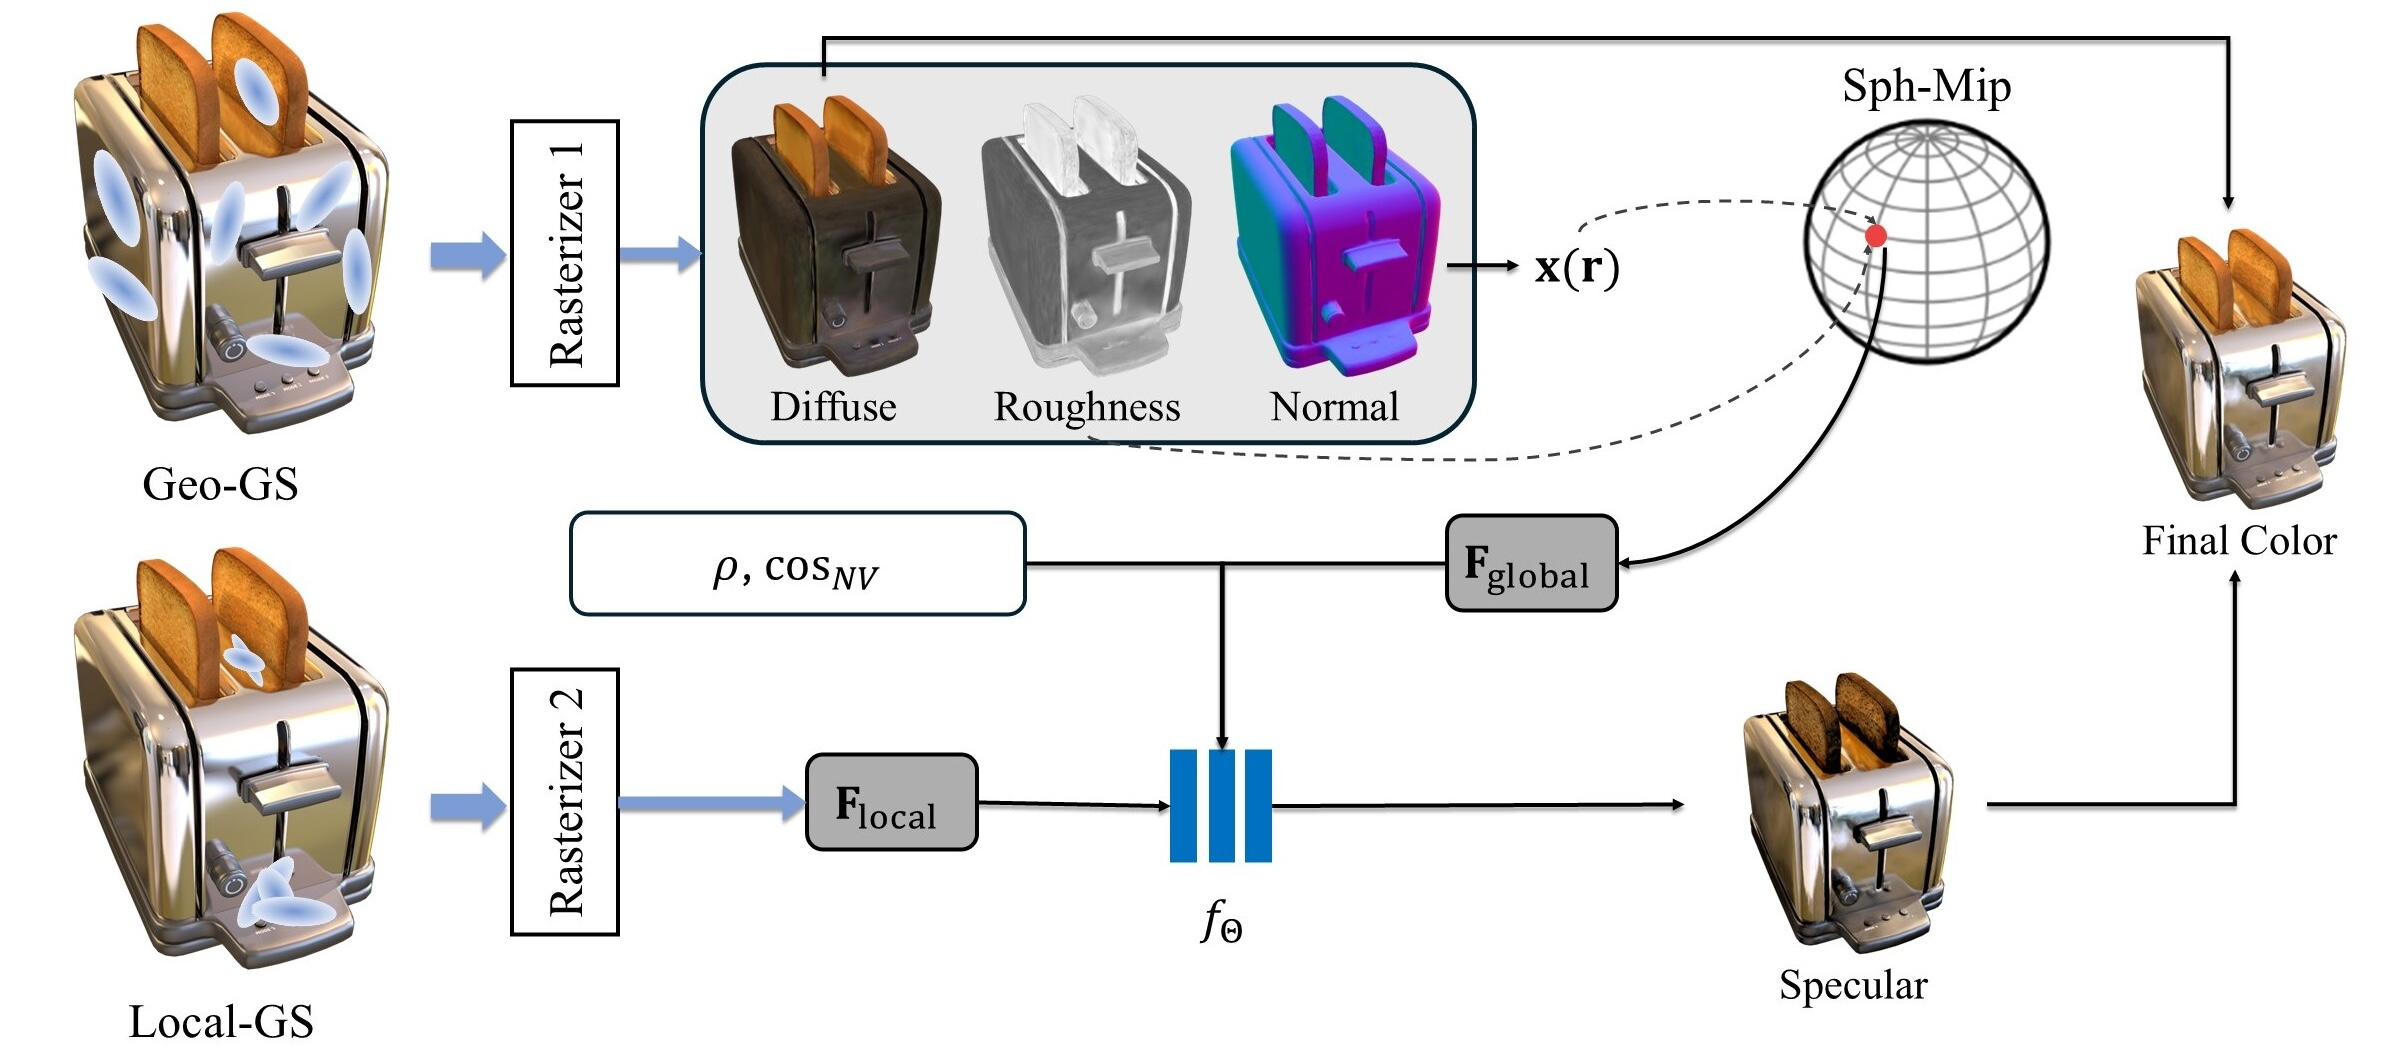
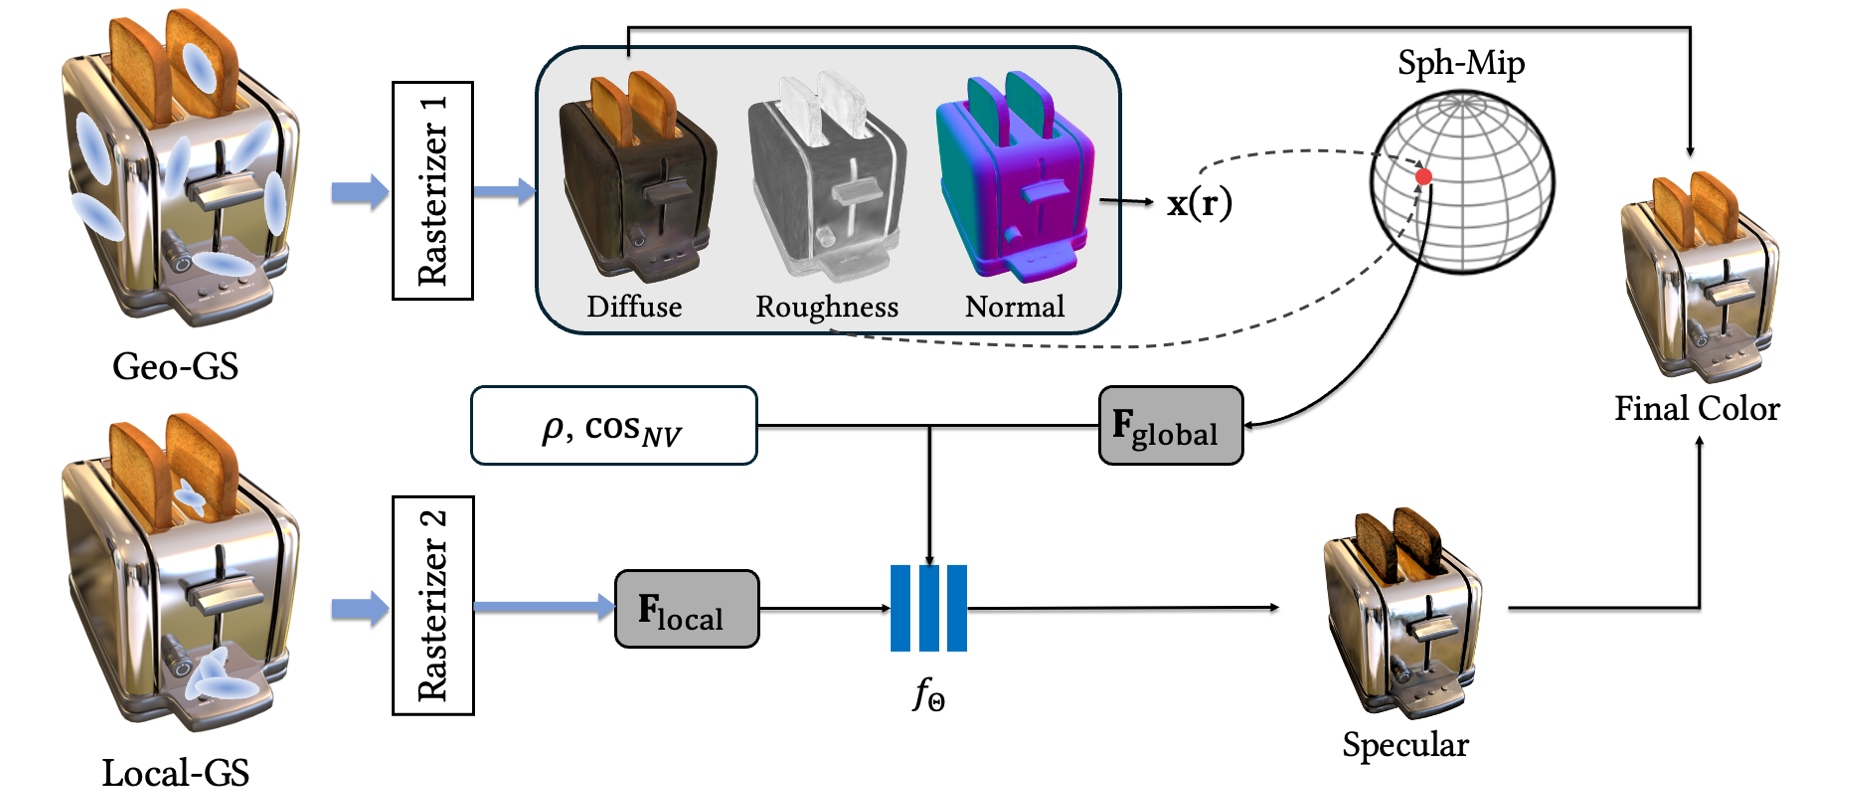
Init website

diff --git a/index.html b/index.html
@@ -72,7 +72,7 @@
         <div class="column has-text-centered">
           <h1 class="title is-1 publication-title">Ref-DGS: Reflective Dual Gaussian Splatting</h1>
           <!-- <h1 style="font-size:1.5rem"> SIGGRAPH 2026 Submission<br>(ACM Transactions on Graphics) <br></h1> -->
-           <h1 style="font-size:1.5rem">Conditionally accepted to SIGGRAPH</h1>
+           <h1 style="font-size:1.5rem; color:red;">SIGGRAPH 2026</h1>
           <div class="is-size-5 publication-authors">
             <span class="author-block">
               <a>Ningjing Fan</a><sup>1</sup>&nbsp;&nbsp;&nbsp;&nbsp;&nbsp;
@@ -93,7 +93,7 @@
 
           <div class="is-size-5 publication-authors">
             <span class="author-block"><sup>1</sup>Chongqing University</span>&nbsp;&nbsp;&nbsp;&nbsp;&nbsp;
-            <span class="author-block"><sup>2</sup>Institute of Automation, Chinese Academy of Sciences</span>&nbsp;&nbsp;&nbsp;&nbsp;&nbsp;
+            <span class="author-block"><sup>2</sup>MAIS, Institute of Automation, Chinese Academy of Sciences, and UCAS</span>&nbsp;&nbsp;&nbsp;&nbsp;&nbsp;
             <span class="author-block"><sup>3</sup>King Abdullah University of Science and Technology (KAUST)</span>
           </div>
 <!-- 
@@ -239,19 +239,7 @@
       <div class="column is-four-fifths">
         <h2 class="title is-3">Abstract</h2>
         <div class="content has-text-justified">
-          Reflective appearance, especially strong and typically near-field specular reflections, 
-          poses a fundamental challenge for accurate surface reconstruction and novel view synthesis. 
-          Existing Gaussian splatting methods either fail to model near-field specular reflections or 
-          rely on explicit ray tracing at substantial computational cost. We present <b>Ref-DGS</b>, 
-          a reflective dual Gaussian splatting framework that addresses this trade-off by decoupling 
-          surface reconstruction from specular reflection within an efficient rasterization-based pipeline. 
-          Ref-DGS introduces a dual Gaussian scene representation consisting of geometry Gaussians and 
-          complementary local reflection Gaussians that capture near-field specular interactions 
-          without explicit ray tracing, along with a global environment reflection field for modeling 
-          far-field specular reflections. To predict specular radiance, we further propose a lightweight, 
-          physically-aware adaptive mixing shader that fuses global and local reflection features. 
-          Experiments demonstrate that Ref-DGS achieves state-of-the-art performance on reflective scenes 
-          while training substantially faster than ray-based Gaussian methods.
+          The reflective appearance, especially strong and typically near-field specular reflections, poses a fundamental challenge for accurate surface reconstruction and novel view synthesis. Existing Gaussian splatting methods either fail to model near-field specular reflections or rely on explicit ray tracing at substantial computational cost. We present <b>Ref-DGS</b>, a reflective dual Gaussian splatting framework that addresses this trade-off by decoupling surface reconstruction from specular reflection within an efficient rasterization-based pipeline. Ref-DGS introduces a dual Gaussian scene representation consisting of geometry Gaussians and complementary local reflection Gaussians that capture near-field specular interactions without explicit ray tracing, along with a global environment reflection field for modeling far-field specular reflections. To predict specular radiance, we further propose a lightweight, physically-aware specular adaptive mixing shader that fuses global and local specular features. Experiments demonstrate that Ref-DGS achieves state-of-the-art performance on reflective scenes while training substantially faster than ray-based Gaussian methods.
           <!-- <p>
           Radiance Field methods have recently revolutionized novel-view synthesis
           of scenes captured with multiple photos or videos. However, achieving high